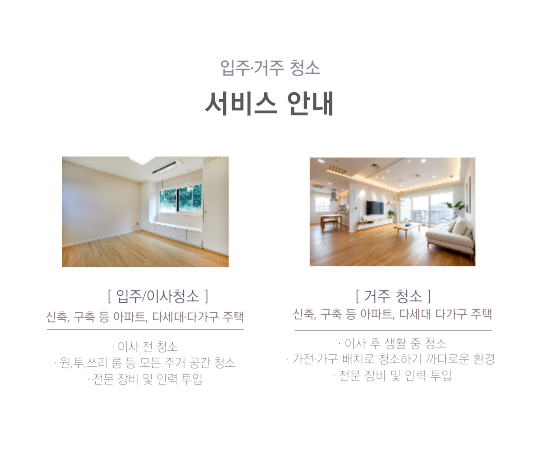
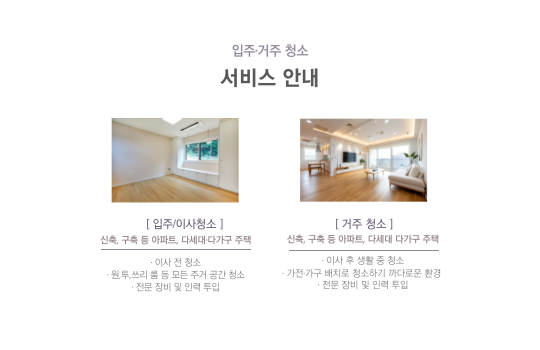
모바일 전체적인 구성

diff --git a/src/pages/PageOne.jsx b/src/pages/PageOne.jsx
@@ -17,6 +17,8 @@ import m5 from "../img/mobile/003.png";
 import m1 from "../img/mobile/006.png";
 import m2 from "../img/mobile/007.png";
 import m3 from "../img/mobile/008.png";
+import m6 from "../img/mobile/009.png";
+import m7 from "../img/mobile/010.png";
 import { Swiper, SwiperSlide } from "swiper/react";
 import { Navigation, Pagination, Autoplay } from "swiper/modules";
 
@@ -29,6 +31,19 @@ const Container = styled.div`
   justify-content: center;
   background-color: #ffffff;
 `;
+
+const Container2 = styled.div`
+  width: 100%;
+  height: 100vh;
+  display: flex;
+  flex-direction: column;
+  align-items: center;
+  justify-content: center;
+  background-color: #ffffff;
+  @media (max-width: 768px) {
+    height: 70vh;
+  }
+`;
 const ContainerM = styled.div`
   width: 100%;
   height: 100vh;
@@ -38,7 +53,7 @@ const ContainerM = styled.div`
   justify-content: center;
   background-color: #ffffff;
   @media (max-width: 768px) {
-    height: 100vh;
+    height: 30vh;
   }
 `;
 
@@ -88,7 +103,30 @@ const StyledSwiper = styled(Swiper)`
     font-size: 1.5rem;
   }
   @media (max-width: 768px) {
-    margin-top: 10px;
+    margin-top: 30px;
+  }
+`;
+const SlideM = styled(SwiperSlide)`
+  display: flex;
+  justify-content: center;
+  align-items: center;
+  font-size: 1.5rem;
+  border-radius: 10px;
+  /* transition: background-color 0.5s ease; */
+  background-image: ${({ imageurl }) => `url(${imageurl})`};
+  background-size: contain;
+  background-repeat: no-repeat;
+  background-position: center;
+  &::after {
+    content: "";
+    position: absolute;
+    top: 0;
+    left: 0;
+    width: 100%;
+    height: 100%;
+    background: ${({ theme }) => theme.overlay}; /* 다크 모드의 오버레이 색상 */
+    transition: background-color 0.5s ease;
+    pointer-events: none;
   }
 `;
 
@@ -113,6 +151,35 @@ const Slide = styled(SwiperSlide)`
     background: ${({ theme }) => theme.overlay}; /* 다크 모드의 오버레이 색상 */
     transition: background-color 0.5s ease;
     pointer-events: none;
+  }
+  @media (max-width: 768px) {
+    display: none;
+  }
+`;
+const Slide2 = styled(SwiperSlide)`
+  display: none;
+  justify-content: center;
+  align-items: center;
+  font-size: 1.5rem;
+  border-radius: 10px;
+  /* transition: background-color 0.5s ease; */
+  background-image: ${({ imageurl }) => `url(${imageurl})`};
+  background-size: contain;
+  background-repeat: no-repeat;
+  background-position: center;
+  &::after {
+    content: "";
+    position: absolute;
+    top: 0;
+    left: 0;
+    width: 100%;
+    height: 100%;
+    background: ${({ theme }) => theme.overlay}; /* 다크 모드의 오버레이 색상 */
+    transition: background-color 0.5s ease;
+    pointer-events: none;
+  }
+  @media (max-width: 768px) {
+    display: flex;
   }
 `;
 
@@ -142,19 +209,19 @@ const PageShop = () => {
           autoplay={{ delay: 5000 }}
           modules={[Navigation, Pagination, Autoplay]}
         >
-          <Slide imageurl={isMobile ? m4 : Ad4} />
-          <Slide imageurl={isMobile ? m5 : Ad5} />
+          <SlideM imageurl={isMobile ? m4 : Ad4} />
+          <SlideM imageurl={isMobile ? m5 : Ad5} />
         </StyledSwiper>
       </Container>
       <ContainerM>
         <ImageBox imageurl={isMobile ? m1 : Ad1} />
       </ContainerM>
-      <Container>
+      <Container2>
         <ImageBox imageurl={isMobile ? m2 : Ad2} />
-      </Container>
-      <Container>
+      </Container2>
+      <Container2>
         <ImageBox imageurl={isMobile ? m3 : Ad3} />
-      </Container>
+      </Container2>
       <Container>
         <StyledSwiper
           key="swiper"
@@ -172,6 +239,8 @@ const PageShop = () => {
           <Slide imageurl={Ad13} />
           <Slide imageurl={Ad14} />
           <Slide imageurl={Ad15} />
+          <Slide2 imageurl={m6} />
+          <Slide2 imageurl={m7} />
         </StyledSwiper>
       </Container>
     </>

diff --git a/src/pages/PageShop.jsx b/src/pages/PageShop.jsx
@@ -1,6 +1,7 @@
 import React from "react";
 import styled from "styled-components";
 import Ad1 from "../img/016.png";
+import m1 from "../img/mobile/011.png";
 
 const Container = styled.div`
   width: 100%;
@@ -10,26 +11,25 @@ const Container = styled.div`
   align-items: center;
   justify-content: center;
   background-color: #ffffff;
-  margin-top: 50px;
 `;
 
 const ImageBox = styled.div`
-  width: 100%;
+  width: 90%;
   height: 90%;
-  background-image: ${({ imageurl }) => `url(${imageurl})`};
+  background-image: url(${Ad1});
   background-size: contain;
   background-repeat: no-repeat;
   background-position: center;
   @media (max-width: 768px) {
-    width: 90%;
-    height: 100%;
+    background-image: url(${m1});
   }
 `;
+
 const PageShop = () => {
   return (
     <>
       <Container>
-        <ImageBox imageurl={Ad1} />
+        <ImageBox />
       </Container>
     </>
   );

diff --git a/src/pages/PageCompletion.jsx b/src/pages/PageCompletion.jsx
@@ -1,6 +1,7 @@
 import React from "react";
 import styled from "styled-components";
 import Ad1 from "../img/017.png";
+import m1 from "../img/mobile/012.png";
 
 const Container = styled.div`
   width: 100%;
@@ -13,22 +14,22 @@ const Container = styled.div`
 `;
 
 const ImageBox = styled.div`
-  width: 100%;
-  height: 100%;
-  background-image: ${({ imageurl }) => `url(${imageurl})`};
+  width: 90%;
+  height: 90%;
+  background-image: url(${Ad1});
   background-size: contain;
   background-repeat: no-repeat;
   background-position: center;
   @media (max-width: 768px) {
-    width: 90%;
-    height: 100%;
+    background-image: url(${m1});
   }
 `;
+
 const PageCompletion = () => {
   return (
     <>
       <Container>
-        <ImageBox imageurl={Ad1} />
+        <ImageBox />
       </Container>
     </>
   );

diff --git a/src/pages/PageSpecial.jsx b/src/pages/PageSpecial.jsx
@@ -1,6 +1,7 @@
 import React from "react";
 import styled from "styled-components";
 import Ad1 from "../img/018.png";
+import m1 from "../img/mobile/013.png";
 
 const Container = styled.div`
   width: 100%;
@@ -13,22 +14,22 @@ const Container = styled.div`
 `;
 
 const ImageBox = styled.div`
-  width: 100%;
-  height: 100%;
-  background-image: ${({ imageurl }) => `url(${imageurl})`};
+  width: 90%;
+  height: 90%;
+  background-image: url(${Ad1});
   background-size: contain;
   background-repeat: no-repeat;
   background-position: center;
   @media (max-width: 768px) {
-    width: 90%;
-    height: 100%;
+    background-image: url(${m1});
   }
 `;
+
 const PageSpecial = () => {
   return (
     <>
       <Container>
-        <ImageBox imageurl={Ad1} />
+        <ImageBox />
       </Container>
     </>
   );

diff --git a/src/pages/Introduce.jsx b/src/pages/Introduce.jsx
@@ -54,7 +54,7 @@ const StyledSwiper = styled(Swiper)`
     font-size: 1.5rem;
   }
   @media (max-width: 768px) {
-    margin-top: 10px;
+    margin-top: 30px;
   }
 `;
 
